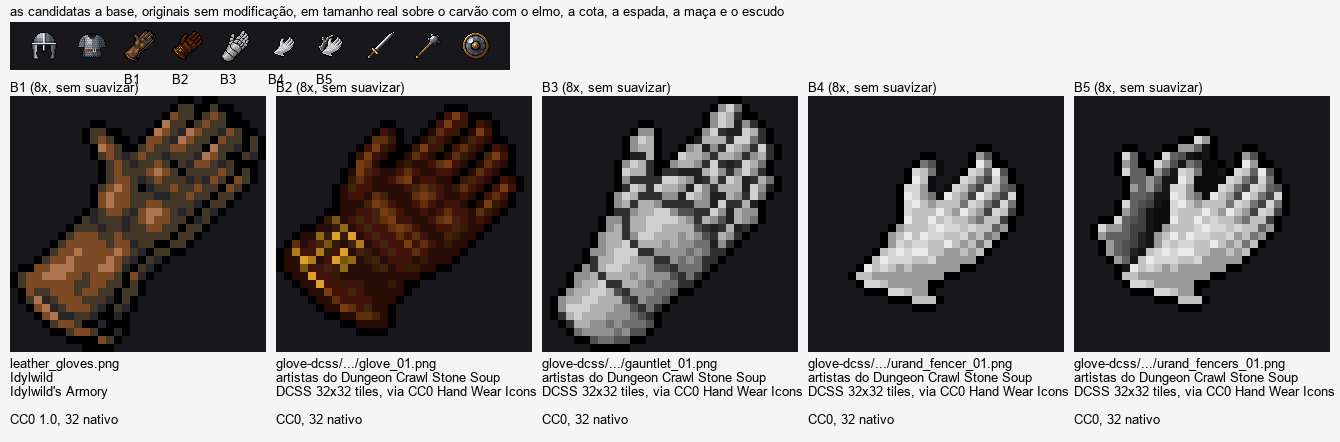
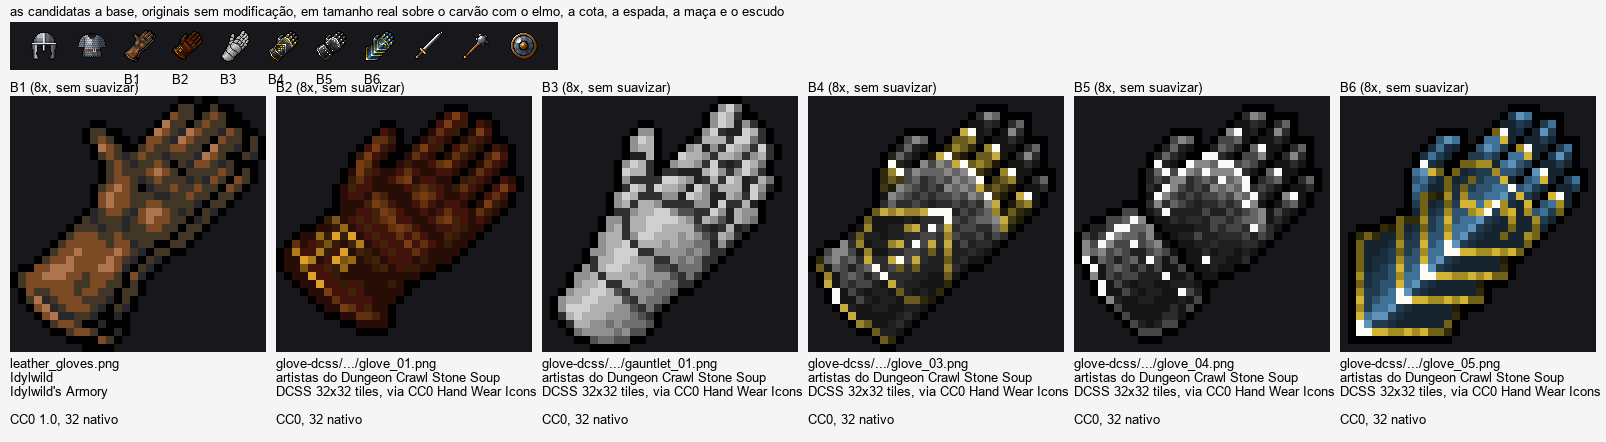
Escolha da base das luvas: entram glove_03, glove_04 e glove_05 da Dungeon Crawl (nada no jogo)
As três manoplas que o Jean apontou (vistas na folha de contato com os
nomes das luvas de esgrima, por causa da posição das legendas) entram como
B4 a B6; as de esgrima saem. Seis candidatas originais, sem modificação,
na prancha escolha-base-luvas.png; o registro corrigido.

diff --git a/ferramentas/prototipos/hud/itens-lote-noite/bandagem_pocao/auxiliares/montar.py b/ferramentas/prototipos/hud/itens-lote-noite/bandagem_pocao/auxiliares/montar.py
@@ -716,8 +716,9 @@ def escolha_base_luvas():
         ("B1", X / "idylwilds_armory/original/leather_gloves.png", "leather_gloves.png", "Idylwild", "Idylwild's Armory", "CC0 1.0", "32 nativo"),
         ("B2", X / "cc0_hand_wear_icons/original/glove-dcss/32x32/glove/glove_01.png", "glove-dcss/.../glove_01.png", dcss, via, "CC0", "32 nativo"),
         ("B3", X / "cc0_hand_wear_icons/original/glove-dcss/32x32/gauntlet/gauntlet_01.png", "glove-dcss/.../gauntlet_01.png", dcss, via, "CC0", "32 nativo"),
-        ("B4", X / "cc0_hand_wear_icons/original/glove-dcss/32x32/urand/urand_fencer_01.png", "glove-dcss/.../urand_fencer_01.png", dcss, via, "CC0", "32 nativo"),
-        ("B5", X / "cc0_hand_wear_icons/original/glove-dcss/32x32/urand/urand_fencers_01.png", "glove-dcss/.../urand_fencers_01.png", dcss, via, "CC0", "32 nativo"),
+        ("B4", X / "cc0_hand_wear_icons/original/glove-dcss/32x32/glove/glove_03.png", "glove-dcss/.../glove_03.png", dcss, via, "CC0", "32 nativo"),
+        ("B5", X / "cc0_hand_wear_icons/original/glove-dcss/32x32/glove/glove_04.png", "glove-dcss/.../glove_04.png", dcss, via, "CC0", "32 nativo"),
+        ("B6", X / "cc0_hand_wear_icons/original/glove-dcss/32x32/glove/glove_05.png", "glove-dcss/.../glove_05.png", dcss, via, "CC0", "32 nativo"),
     ]
     ims = [Image.open(c[1]).convert("RGBA") for c in cand]
     Z = 8; L = 32 * Z

diff --git a/ferramentas/prototipos/hud/itens-lote-noite/LEIA-ME.md b/ferramentas/prototipos/hud/itens-lote-noite/LEIA-ME.md
@@ -2496,8 +2496,11 @@ ficam como histórico. Antes de outra adaptação, escolher a base: uma prancha 
 modificação**, incluindo a `leather_gloves` do Idylwild's Armory; outras opções gratuitas com licença clara, começando
 pela coleção CC0 Hand Wear Icons. Critérios: uma luva só, mão e punho bem proporcionados no quadro, quatro dedos e o
 polegar reconhecíveis, pose natural, construção legível, de preferência desenhada em 32 (a resolução original
-registrada); qualquer material (a forma primeiro, sem recolorir). Nesta entrega nada é desenhado nem adaptado. No meio:
-"as urand_fencers ali nas referências são boas também".
+registrada); qualquer material (a forma primeiro, sem recolorir). Nesta entrega nada é desenhado nem adaptado. No meio,
+o Jean apontou como boas três luvas que ele viu na folha de contato com os nomes das de esgrima ("urand_fencers"); o
+recorte que ele mandou mostrou que eram as manoplas `glove_03`, `glove_04` e `glove_05` da Dungeon Crawl (na folha, o nome
+fica acima do desenho; no recorte ele aparecia embaixo, como se fosse da imagem de cima). Elas entraram, e as de esgrima
+saíram.
 
 **A busca:** o pacote Idylwild's Armory (já no projeto) e a coleção CC0 Hand Wear Icons (montada por AntumDeluge;
 baixados os oito conjuntos, guardados intactos em `ferramentas/arte/externas/cc0_hand_wear_icons/original/`, com a
@@ -2508,19 +2511,21 @@ cinco candidatas com formas diferentes entre si:
 - **B2, `glove-dcss/32x32/glove/glove_01.png`** (artistas do Dungeon Crawl Stone Soup, "Dungeon Crawl 32x32 tiles", via
   a coleção; CC0; 32 nativo): a luva de couro na diagonal, os dedos juntos, o punho curto com a fivela.
 - **B3, `glove-dcss/32x32/gauntlet/gauntlet_01.png`** (o mesmo): a manopla de placas, os dedos abertos e o polegar.
-- **B4, `glove-dcss/32x32/urand/urand_fencer_01.png`** (o mesmo): a luva de esgrima de tecido, a mão aberta; ocupa menos
-  o quadro.
-- **B5, `glove-dcss/32x32/urand/urand_fencers_01.png`** (o mesmo): o par de luvas de esgrima (entrou pelo pedido do
-  Jean; é um par, não uma luva só).
+- **B4, `glove-dcss/32x32/glove/glove_03.png`** (o mesmo): a manopla de couro preto com os nós e a placa do punho em ouro.
+- **B5, `glove-dcss/32x32/glove/glove_04.png`** (o mesmo): a manopla preta com os nós e os rebites de prata.
+- **B6, `glove-dcss/32x32/glove/glove_05.png`** (o mesmo): a manopla azul com ouro e o punho em lâminas.
+  B2, B4, B5 e B6 têm quase a mesma silhueta (a mesma mão, de 87 a 94% igual); o que muda é a construção do material
+  (couro liso, nós de metal, punho em lâminas).
 
-**Fora, e por quê:** `glove_02` a `glove_07` da Dungeon Crawl são o mesmo desenho da `glove_01` recolorido (as
-silhuetas 87 a 99% iguais; a `glove_07`, a amarelo-queimada, já recusada); `gauntlet_02` (o manguito comprido domina a
+**Fora, e por quê:** `glove_02` (a `glove_01` recolorida, 99% igual), `glove_06` (variante decorada) e `glove_07` (a
+amarelo-queimada, já recusada); `urand_fencer_01` e `urand_fencers_01` (as de esgrima: a luva pequena no quadro, e o
+par); `gauntlet_02` (o manguito comprido domina a
 mão); `urand_war` (os dedos fundidos num bloco); `urand_fencer_02` (variante da 01); os pares e cruzados restantes
 (studded, Flare); mitenes, luva de boxe e de beisebol (sem dedos); os punhos fechados (7Soul1, Fleurman, babysamurai) e
 os miúdos no quadro (babysamurai); as do yd e do Flare são reduções de originais de 72 e 64 (não nativas em 32); as do
 OpenClipart são vetores reduzidos.
 
-**A prancha:** `escolha-base-luvas.png` (as cinco em tamanho real sobre o carvão com o elmo, a cota, a espada, a maça e
+**A prancha:** `escolha-base-luvas.png` (as seis em tamanho real sobre o carvão com o elmo, a cota, a espada, a maça e
 o escudo; ampliadas 8× sem suavização; o arquivo, o autor, a origem, a licença e a resolução de cada uma). P1 e P4
 continuam em avaliação, intocadas.
 

diff --git a/roadmapIDEIAS/23-PLANO-DE-ARTE-INTERFACE-E-COMBATE.md b/roadmapIDEIAS/23-PLANO-DE-ARTE-INTERFACE-E-COMBATE.md
@@ -143,7 +143,7 @@ substituições posteriores, incluindo espada e maça na 1.145.0):
 | `maca` | Maça (Guerreiro) | Arte final, padrão atual (o remake do ferro, integrada na 1.145.0) | `aseprite/maca/` (1.145.0) | — |
 | `elmo` | Elmo, Capacete, Barbuta (Guerreiro) | **Placeholder integrado, pendente de remake**; a rodada 4 aprovada em 32 e 64 (`b4e920d`), 40 e 48 em avaliação | redução da pintura | Também a silhueta da cabeça vazia, de todas as classes (`VAZIO`) |
 | `armadura` → `cota` | Cota de Malha, Peitoral, Couraça, Brigantina (Guerreiro) | Arte final, padrão atual (o remake do ferro, integrada na 1.146.0) | `aseprite/cota/` (1.146.0) | Também a silhueta da armadura vazia (`VAZIO`); a camisa de malha representa pior o Peitoral e a Couraça (de placa) |
-| `manopla` | Manopla (Guerreiro) | **Placeholder integrado, pendente de remake**; nenhuma versão aprovada (o lote L1 a L6 também não); I1 e I2 (adaptações CC0) também não; a escolha da base visual entre sprites CC0 prontos (B1 a B5) em avaliação | redução da pintura | Também a silhueta das mãos vazias (`VAZIO`); a habilidade Grito de Guerra usa o sprite `manopla` noutro papel e não muda |
+| `manopla` | Manopla (Guerreiro) | **Placeholder integrado, pendente de remake**; nenhuma versão aprovada (o lote L1 a L6 também não); I1 e I2 (adaptações CC0) também não; a escolha da base visual entre sprites CC0 prontos (B1 a B6) em avaliação | redução da pintura | Também a silhueta das mãos vazias (`VAZIO`); a habilidade Grito de Guerra usa o sprite `manopla` noutro papel e não muda |
 | `calca` → `perneiras` | Perneira, Greva (Guerreiro) | **Placeholder integrado, pendente de remake**; nenhuma versão aprovada; P1 e P4 do lote de exploração preservadas como candidatas (sem integrar nem redesenhar) | redução da pintura | Também a silhueta das pernas vazias (`VAZIO`) e o desenho de reserva das pernas (`ICONE_ESPACO`) |
 | `bota_ferro` → `botas-ferro` | Bota Ferrada (Guerreiro) | **Placeholder integrado, pendente de remake** | redução da pintura | Também a silhueta dos pés vazios (`VAZIO`) |
 | `martelo` | Martelo (Guerreiro) | **Arte aprovada, preservada; faltam o 40 e o 48** | grade de 32 em `desenhos.js` (1.93.0) | Desenho próprio, não da pintura; completar o 40 e o 48 pela mesma construção, sem redesenhar (outra entrega) |

diff --git a/roadmapIDEIAS/00-COMECE-AQUI.md b/roadmapIDEIAS/00-COMECE-AQUI.md
@@ -4846,8 +4846,8 @@ Tudo no protótipo (`ferramentas/prototipos/hud/LEIA-ME.md`, as seções de mesm
 
 - **Decisão de Jean:** I1 e I2 não aprovadas (histórico); escolher a base visual entre luvas prontas, sem modificar.
 - **Feito:** a coleção CC0 Hand Wear Icons baixada e guardada com a origem (`ferramentas/arte/externas/cc0_hand_wear_icons/`);
-  cinco candidatas (B1 `leather_gloves` do Idylwild; B2 `glove_01`, B3 `gauntlet_01`, B4 `urand_fencer_01` e B5
-  `urand_fencers_01` da Dungeon Crawl) na prancha `manopla_perneiras/escolha_base/escolha-base-luvas.png`, com autor,
+  seis candidatas (B1 `leather_gloves` do Idylwild; B2 `glove_01`, B3 `gauntlet_01`, B4 `glove_03`, B5 `glove_04` e
+  B6 `glove_05` da Dungeon Crawl; as três últimas apontadas pelo Jean) na prancha `manopla_perneiras/escolha_base/escolha-base-luvas.png`, com autor,
   origem, licença e resolução; nada desenhado nem adaptado. P1 e P4 intocadas.
 - **Aguardando a escolha do Jean.** Nada integrado; a versão continua 1.146.0.
 
